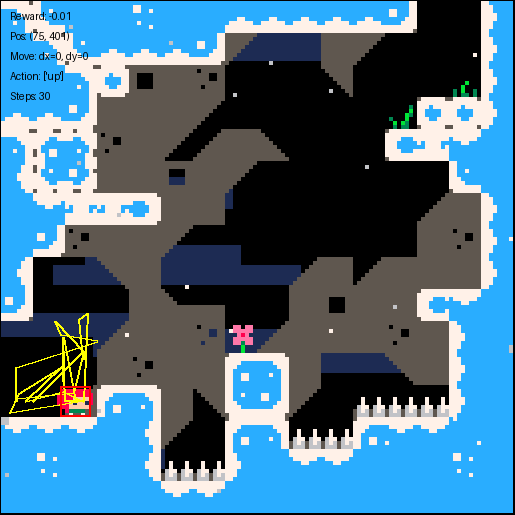
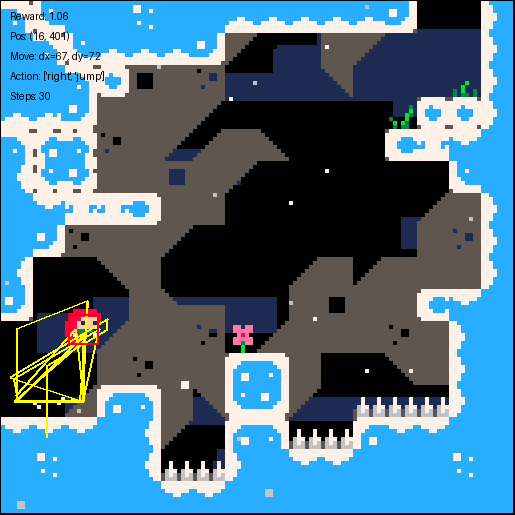
Stabilna wersja

diff --git a/celeste_env.py b/celeste_env.py
@@ -41,7 +41,7 @@ class CelesteEnv:
         self.episode_reward = 0
         self.episode_rewards = []
         self.episode_count = 0
-        self.max_episode_steps = 2500
+        self.max_episode_steps = 150
 
         # System nagród
         self.reward_weights = {
@@ -61,7 +61,7 @@ class CelesteEnv:
             'skin': {'lower': [12, 71, 230], 'upper': [14, 97, 255]},
             'dress': {'lower': [78, 230, 107], 'upper': [80, 255, 158]}
         }
-        self.min_player_size = 15
+        self.min_player_size = 50
         self.color_tolerance = 5
 
     def _create_action_combinations(self):
@@ -227,7 +227,16 @@ class CelesteEnv:
         draw.text((10, 90), f"Steps: {self.total_steps}", fill=(0, 0, 0))
 
         # Rysowanie prostokąta oznaczającego gracza
-        player_x, player_y = self.last_player_pos
+        player_pos = self._detect_player(img_rgb)
+
+        if player_pos is None and self.last_player_pos is not None:
+            # Handle the case where player isn't detected
+            player_x, player_y = self.last_player_pos  # or some default values
+        elif player_pos is None and self.last_player_pos is None:
+            player_x, player_y = 0, 0
+        else:
+            player_x, player_y = player_pos
+
         player_size = 30  # Możesz dostosować rozmiar prostokąta do swojego gracza
         rect_x1 = player_x - player_size // 2
         rect_y1 = player_y - player_size // 2
@@ -276,18 +285,3 @@ class CelesteEnv:
     def close(self):
         if len(self.episode_rewards) > 0:
             self._plot_training_progress()
-
-
-# Przykład użycia
-if __name__ == "__main__":
-    env = CelesteEnv(output_dir="celeste_rl_debug")
-    try:
-        obs = env.reset()
-        for _ in range(1000):
-            action = random.choice(env.action_space)
-            obs, reward, done, info = env.step(action)
-            print(f"Action: {action}, Reward: {reward:.2f}, Pos: {info['player_pos']}")
-            if done:
-                obs = env.reset()
-    finally:
-        env.close()

diff --git a/main.py b/main.py
@@ -234,6 +234,6 @@ if __name__ == "__main__":
 if __name__ == "__main__":
     env = CelesteEnv(output_dir="celeste_test_output")
     try:
-        trained_agent, _ = train_dqn(env, episodes=10)
+        trained_agent, _ = train_dqn(env, episodes=20)
     finally:
         env.close()
